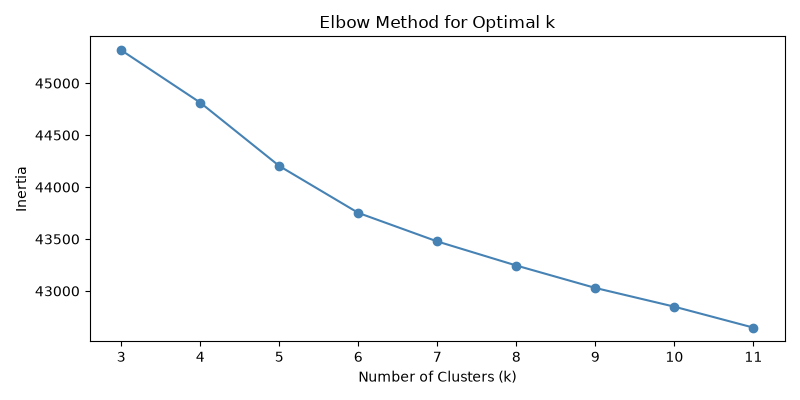
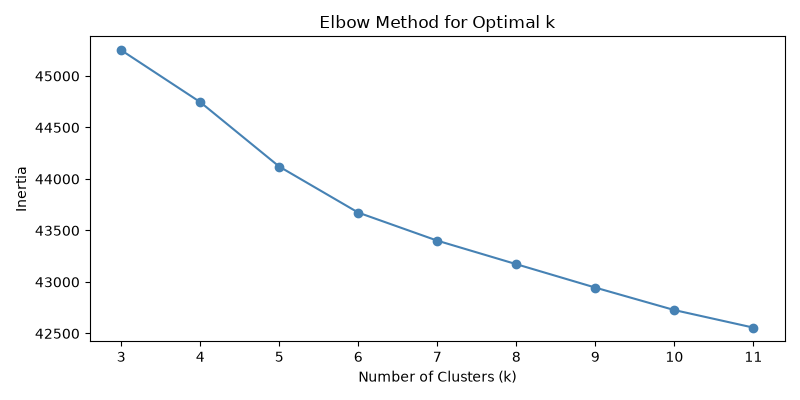
Add fit scores to portal, t-SNE visualization

diff --git a/app/streamlit_app.py b/app/streamlit_app.py
@@ -9,6 +9,7 @@ from src.data.preprocess import clean_text
 from src.models.classifier import predict_category
 from src.models.recommender import recommend_jobs
 from src.models.clustering import get_skill_gap
+from src.models.fit_predictor import predict_fit
 
 # ── Page Config ───────────────────────────────────────────
 st.set_page_config(
@@ -19,15 +20,15 @@ st.set_page_config(
 
 # ── Header ────────────────────────────────────────────────
 st.title("🎯 SmartHire — Resume to Job Matcher")
-st.markdown("Upload your resume and get **matched jobs + skill gap report** instantly!")
+st.markdown("Upload your resume and get **matched jobs + fit scores + skill gap report** instantly!")
 st.divider()
 
 # ── Load Models ───────────────────────────────────────────
 @st.cache_resource
 def load_models():
-    vectorizer = joblib.load("models/tfidf_vectorizer.pkl")
-    job_matrix = joblib.load("models/job_matrix.pkl")
-    jobs_df    = joblib.load("models/jobs_df.pkl")
+    vectorizer  = joblib.load("models/tfidf_vectorizer.pkl")
+    job_matrix  = joblib.load("models/job_matrix.pkl")
+    jobs_df     = joblib.load("models/jobs_df.pkl")
     return vectorizer, job_matrix, jobs_df
 
 with st.spinner("⏳ Loading models..."):
@@ -41,7 +42,7 @@ st.sidebar.divider()
 st.sidebar.markdown("### 📌 How to use:")
 st.sidebar.markdown("1. Upload your resume (PDF or DOCX)")
 st.sidebar.markdown("2. View your predicted job category")
-st.sidebar.markdown("3. See top matching jobs")
+st.sidebar.markdown("3. See top matching jobs with fit scores")
 st.sidebar.markdown("4. Check your skill gap report")
 
 # ── File Upload ───────────────────────────────────────────
@@ -85,36 +86,66 @@ if uploaded:
 
     st.divider()
 
-    # ── Row 2: Job Recommendations ────────────────────────
-    st.subheader("🔝 Top Matching Jobs")
-    with st.spinner("🔍 Finding best jobs for you..."):
+    # ── Row 2: Job Recommendations + Fit Scores ──────────
+    st.subheader("🔝 Top Matching Jobs with Fit Scores")
+    with st.spinner("🔍 Finding best jobs and computing fit scores..."):
         results = recommend_jobs(
             clean, jobs_df, vectorizer, job_matrix, top_n=top_n
         )
 
+        # Add fit score for each job
+        fit_scores = []
+        for _, job_row in results.iterrows():
+            try:
+                score = predict_fit(clean, clean, job_row)
+            except:
+                score = 0.0
+            fit_scores.append(score)
+        results['fit_score_%'] = fit_scores
+
     # Color match score
     def color_score(val):
-        if val >= 20:
+        if val >= 30:
             color = "green"
-        elif val >= 10:
+        elif val >= 15:
             color = "orange"
         else:
             color = "red"
         return f"color: {color}; font-weight: bold"
 
     st.dataframe(
-        results.style.map(color_score, subset=["match_score"]),
+        results[['title', 'company', 'location', 
+                 'skills', 'match_score', 'fit_score_%']].style.map(
+            color_score, subset=["match_score", "fit_score_%"]
+        ),
         use_container_width=True
     )
 
     st.divider()
 
-    # ── Row 3: Skill Gap Report ───────────────────────────
+    # ── Row 3: Fit Score Summary ──────────────────────────
+    st.subheader("🎯 Fit Score Summary")
+    col3, col4, col5 = st.columns(3)
+
+    avg_fit  = sum(fit_scores) / len(fit_scores) if fit_scores else 0
+    max_fit  = max(fit_scores) if fit_scores else 0
+    best_job = results.iloc[fit_scores.index(max_fit)]['title'] if fit_scores else "N/A"
+
+    with col3:
+        st.metric("Average Fit Score", f"{avg_fit:.1f}%")
+    with col4:
+        st.metric("Best Fit Score", f"{max_fit:.1f}%")
+    with col5:
+        st.metric("Best Matching Job", best_job[:30])
+
+    st.divider()
+
+    # ── Row 4: Skill Gap Report ───────────────────────────
     st.subheader("📊 Skill Gap Report")
     gap = get_skill_gap(clean, results)
 
-    col3, col4 = st.columns(2)
-    with col3:
+    col6, col7 = st.columns(2)
+    with col6:
         st.markdown("### ✅ Skills You Have")
         if gap["skills_you_have"]:
             for skill in gap["skills_you_have"]:
@@ -122,7 +153,7 @@ if uploaded:
         else:
             st.info("No matching skills found")
 
-    with col4:
+    with col7:
         st.markdown("### ⚠️ Skills to Add")
         if gap["skills_to_learn"]:
             for skill in gap["skills_to_learn"]:
@@ -133,7 +164,6 @@ if uploaded:
     st.divider()
 
     # ── Footer ────────────────────────────────────────────
-    st.markdown("---")
     st.markdown(
         "**SmartHire** — Built with ❤️ using Python, scikit-learn & Streamlit"
     )
@@ -142,7 +172,6 @@ if uploaded:
     os.unlink(tmp_path)
 
 else:
-    # Show instructions when no file uploaded
     st.info("👆 Please upload your resume to get started!")
     col1, col2, col3 = st.columns(3)
     with col1:

diff --git a/src/models/fit_predictor.py b/src/models/fit_predictor.py
@@ -78,12 +78,24 @@ def train_fit_predictor(resumes, jobs_df):
 
 def predict_fit(resume_text, resume_skills, job_row):
     """Predict fit score for a resume-job pair."""
-    model = joblib.load(FIT_PREDICTOR_PATH)
-    skill_overlap = compute_skill_overlap(resume_skills, job_row['skills'])
-    exp_match     = compute_experience_match(resume_text, job_row['experience'])
-    features      = pd.DataFrame([{
-        'skill_overlap' : skill_overlap,
-        'exp_match'     : exp_match
-    }])
-    prob = model.predict_proba(features)[0][1]
-    return round(prob * 100, 2)
+    try:
+        model = joblib.load(FIT_PREDICTOR_PATH)
+        skill_overlap = compute_skill_overlap(
+            resume_text, job_row.get('skills', '')
+        )
+        exp_match = compute_experience_match(
+            resume_text, job_row.get('experience', '')
+        )
+        # If no skills data, use description overlap
+        if skill_overlap == 0:
+            skill_overlap = compute_skill_overlap(
+                resume_text, job_row.get('description', '')[:200]
+            )
+        features = pd.DataFrame([{
+            'skill_overlap' : skill_overlap,
+            'exp_match'     : exp_match
+        }])
+        prob = model.predict_proba(features)[0][1]
+        return round(prob * 100, 2)
+    except:
+        return 0.0